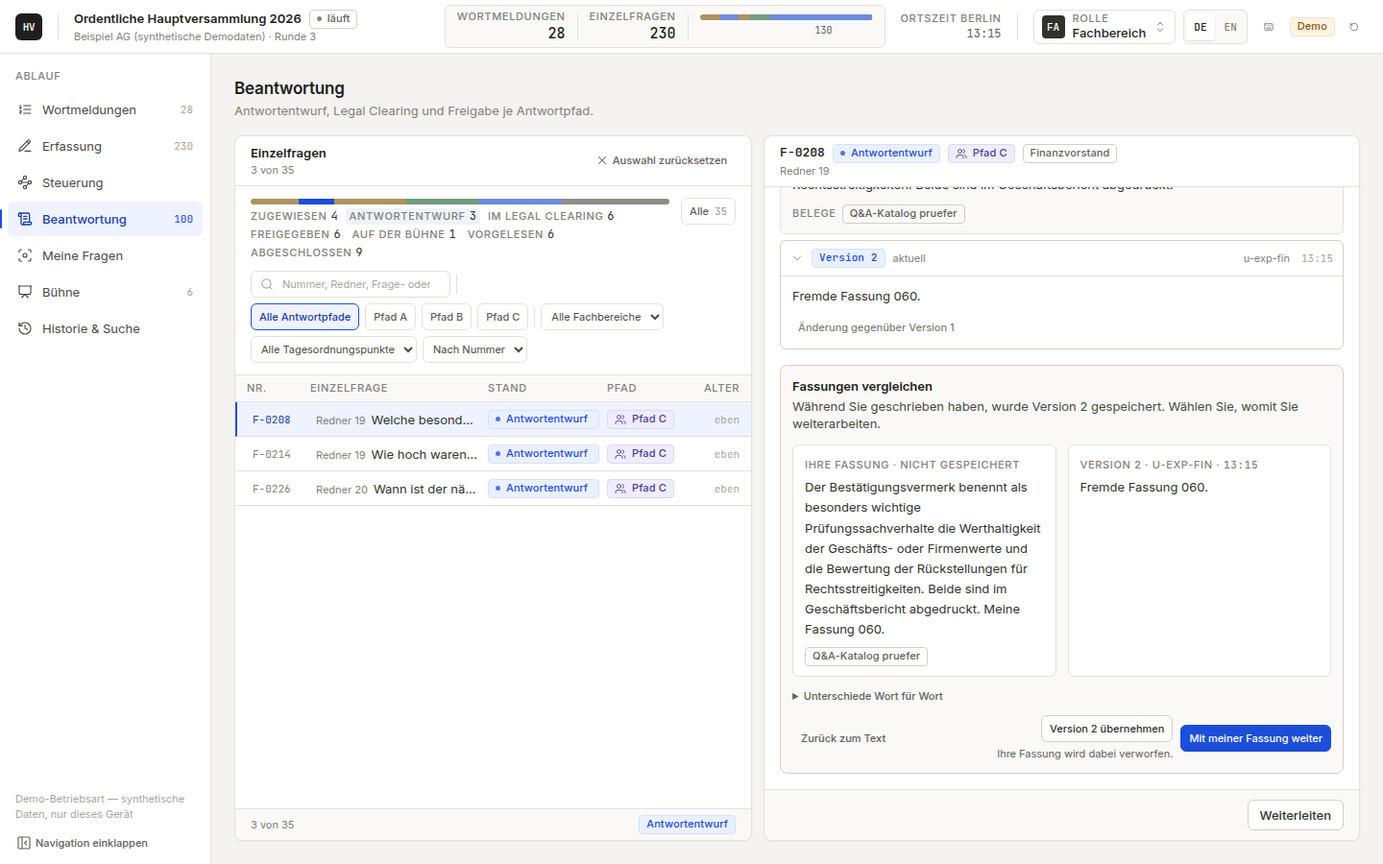
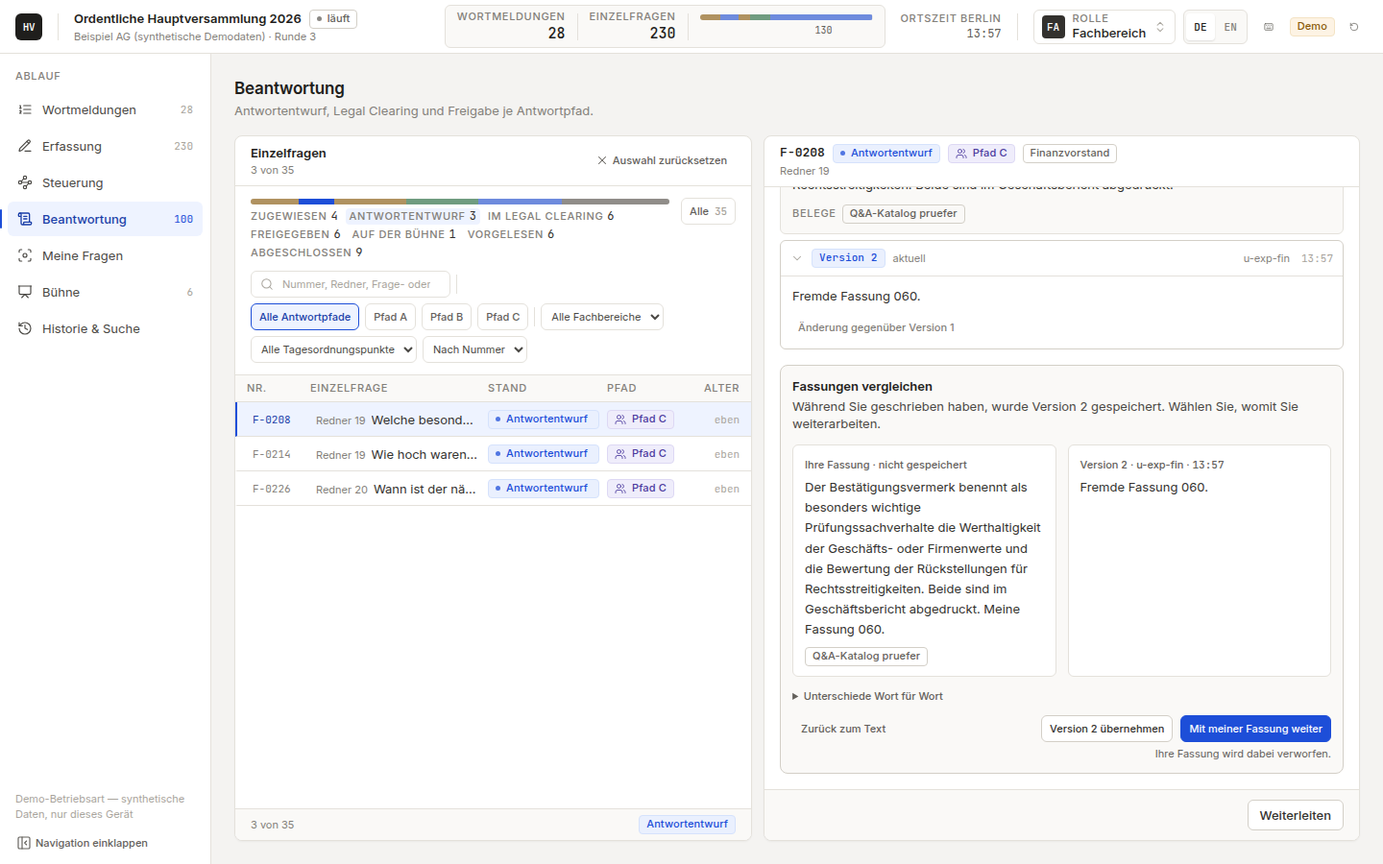
060 Nacharbeit: Review, Design-Kritik und CI e2e-http E3 [skip netlify]
Puffer: kein Ladekreis bei totem Speicher, clear-Epoche, 256-KiB-Grenze beim Lesen;
Rückgängig innerhalb 400 ms löscht; roles_changed im Schreibmodus; Vergleich: eine
primäre Aktion, Knöpfe in einer Reihe, Spaltenköpfe ink-600; goneKept 'in diesem
Browser'; E3 http prüft den Text im Puffer statt im ausgeblendeten Feld; Doku-Wortlaut
zum Ablauf und Restrisiko anderer Tabs.

Claude-Session: https://claude.ai/code/session_013UK8Jxen4h6QSw8s3wijKh

diff --git a/apps/web/src/api/draftBuffer.ts b/apps/web/src/api/draftBuffer.ts
@@ -16,7 +16,7 @@
  * the comparison only through `AnswerText` (decision 2).
  */
 import { useSyncExternalStore } from 'react';
-import { checkAnswerBodyInput, codePointLength } from '@hv/domain';
+import { ANSWER_TEXT_MAX_LENGTH, checkAnswerBodyInput, codePointLength } from '@hv/domain';
 import type { AnswerBodyInput } from '@hv/domain';
 import { previewAnswer, previewText } from './answerFormat';
 
@@ -39,7 +39,6 @@ const FUTURE_TOLERANCE_MS = 5 * 60 * 1000;
 const SOURCES_MAX_PARTS = 50;
 const SOURCE_MAX_CHARS = 2000;
 const SOURCES_MAX_CHARS = 102_000;
-const ANSWER_TEXT_MAX_CHARS = 20_000;
 
 /** One buffered draft: exactly the fields of decision 2. The base itself always comes from the record. */
 export interface BufferEntry {
@@ -122,9 +121,11 @@ export function sanitizeEntry(raw: unknown, now: number): BufferEntry | undefine
     if (checkAnswerBodyInput(body) !== undefined) return undefined;
     checked = body as AnswerBodyInput;
     if (previewAnswer(checked) === null && hasText(checked)) return undefined;
-    if (codePointLength(previewText(checked)) > ANSWER_TEXT_MAX_CHARS) return undefined;
+    if (codePointLength(previewText(checked)) > ANSWER_TEXT_MAX_LENGTH) return undefined;
   }
-  return { id, schema: BUFFER_SCHEMA, ownerId, meetingId, questionId, body: checked, sources, baseVersion, changedAt };
+  const clean: BufferEntry = { id, schema: BUFFER_SCHEMA, ownerId, meetingId, questionId, body: checked, sources, baseVersion, changedAt };
+  // The serialised cap holds on read as on write (review 060, minor 6): a planted entry cannot be larger than one written.
+  return JSON.stringify(clean).length > ENTRY_MAX_CHARS ? undefined : clean;
 }
 
 /** A store in memory with the same interface, for tests (and nothing else). */
@@ -233,6 +234,10 @@ export function createDraftBuffer(options: {
   let loadedFor: string | undefined;
   let loading: { id: string; done: Promise<void> } | undefined;
   let loads = 0;
+  /** Actor ids whose load failed: never asked again on this page (review 060, blocker 1: no load loop on a dead store). */
+  const failed = new Set<string>();
+  /** Bumped by every clear: a load that started before it must not bring cleared entries back (review 060, minor 5). */
+  let epoch = 0;
   let rev = 0;
   let roles = false;
   // Not armed until the first explicit load: the demo start switches to the administration and back before it (blocker 1).
@@ -262,10 +267,11 @@ export function createDraftBuffer(options: {
 
   async function loadFor(id: string): Promise<void> {
     if (loading?.id === id) return loading.done;
+    const startedIn = epoch;
     const done = (async () => {
       status = status === 'unavailable' ? status : 'loading';
       try {
-        const rows = await store.getAll();
+        const rows = startedIn === epoch ? await store.getAll() : [];
         const at = now();
         const next = new Map<string, BufferEntry>();
         const drop: string[] = [];
@@ -281,6 +287,7 @@ export function createDraftBuffer(options: {
         // purgeOthers: every entry of another actor, every rejected and every expired one goes (idempotent).
         for (const rawId of drop) await store.delete(rawId);
         if (actorId() !== id) return;
+        if (startedIn !== epoch) next.clear();
         if (loadedFor !== id) roles = false;
         for (const [key, held] of pending) if (held.ownerId !== id) cancelPending(key);
         snapshot = next;
@@ -291,6 +298,7 @@ export function createDraftBuffer(options: {
         if (status !== 'unavailable') status = 'ready';
       } catch {
         status = 'unavailable';
+        failed.add(id);
       } finally {
         if (loading?.id === id) loading = undefined;
         notify();
@@ -305,7 +313,7 @@ export function createDraftBuffer(options: {
     const id = actorId();
     if (id === undefined || !armed) return undefined;
     if (id !== loadedFor) {
-      void loadFor(id);
+      if (!failed.has(id)) void loadFor(id);
       return undefined;
     }
     return id;
@@ -330,7 +338,7 @@ export function createDraftBuffer(options: {
     const changedAt = now();
     const candidate = { ...fields, id: entryId(fields.meetingId, fields.ownerId, fields.questionId), schema: BUFFER_SCHEMA, changedAt };
     const entry = sanitizeEntry(candidate, changedAt);
-    if (entry === undefined || JSON.stringify(entry).length > ENTRY_MAX_CHARS) {
+    if (entry === undefined) {
       switchOff();
       return undefined;
     }
@@ -398,7 +406,7 @@ export function createDraftBuffer(options: {
     async load() {
       armed = true;
       const id = actorId();
-      if (id === undefined || id === loadedFor) return;
+      if (id === undefined || id === loadedFor || failed.has(id)) return;
       await loadFor(id);
     },
     notice() {
@@ -439,6 +447,7 @@ export function createDraftBuffer(options: {
       return id === loadedFor && snapshot.has(key) ? kept.get(key) : undefined;
     },
     async clear() {
+      epoch += 1;
       for (const key of [...pending.keys()]) cancelPending(key);
       snapshot = new Map();
       kept.clear();

diff --git a/apps/web/src/features/answers/CompareVersions.tsx b/apps/web/src/features/answers/CompareVersions.tsx
@@ -114,12 +114,12 @@ export function CompareVersions({ mine, theirs, autoFocus, onKeepMine, onTakeThe
 
       <div className="mt-3 grid gap-3 lg:grid-cols-2">
         <div data-testid="compare-mine" className="min-w-0 rounded-md border border-line bg-surface px-3 py-2.5">
-          <span className="hv-label">{t('answers.compare.mine')}</span>
+          <span data-testid="compare-mine-head" className="text-2xs font-medium text-ink-600">{t('answers.compare.mine')}</span>
           <AnswerText answer={{ text: mineText, ...(mineBody !== null ? { body: mineBody } : {}) }} className="mt-1 text-[13px] leading-relaxed text-ink-800 select-text" />
           <Sources sources={splitSources(mine.sources)} />
         </div>
         <div data-testid="compare-theirs" className="min-w-0 rounded-md border border-line bg-surface px-3 py-2.5">
-          <span data-testid="compare-theirs-head" aria-live="polite" className="hv-label">
+          <span data-testid="compare-theirs-head" aria-live="polite" className="text-2xs font-medium text-ink-600">
             {fill(t('answers.compare.theirs'), {
               version: mono(theirs.version),
               author,
@@ -149,23 +149,22 @@ export function CompareVersions({ mine, theirs, autoFocus, onKeepMine, onTakeThe
         {diffOpen && <WordDiff from={theirsText} to={mineText} />}
       </details>
 
-      <div className="mt-3 flex flex-wrap items-center gap-2">
+      {/* Design critique D-b (D3): the three buttons share one row and one top edge; the hint has its own line below. */}
+      <div data-testid="compare-actions" className="mt-3 flex flex-wrap items-center gap-2">
         <Button size="sm" variant="ghost" data-testid="compare-back" onClick={onBack}>
           {t('answers.compare.back')}
         </Button>
         <span className="flex-1" />
-        <span className="flex flex-col items-end gap-1">
-          <Button size="sm" variant="secondary" data-testid="compare-take-theirs" aria-describedby={hintId} onClick={() => onTakeTheirs(theirs.version)}>
-            {t('answers.compare.takeTheirs', { version: theirs.version })}
-          </Button>
-          <span id={hintId} className="text-2xs text-ink-600">
-            {t('answers.compare.takeTheirsHint')}
-          </span>
-        </span>
+        <Button size="sm" variant="secondary" data-testid="compare-take-theirs" aria-describedby={hintId} onClick={() => onTakeTheirs(theirs.version)}>
+          {t('answers.compare.takeTheirs', { version: theirs.version })}
+        </Button>
         <Button size="sm" variant="primary" data-testid="compare-keep-mine" onClick={() => onKeepMine(theirs.version)}>
           {t('answers.compare.keepMine')}
         </Button>
       </div>
+      <p id={hintId} className="mt-1 text-right text-2xs text-ink-600">
+        {t('answers.compare.takeTheirsHint')}
+      </p>
     </section>
   );
 }

diff --git a/apps/web/src/features/focus/Page.tsx b/apps/web/src/features/focus/Page.tsx
@@ -171,6 +171,14 @@ export function FocusPage() {
     // say until when it stays on this device. Without the buffer the notice of 054 stands: the text is gone.
     for (const { number, key, questionId } of discarded) {
       const meetingId = meetingOf.current[key];
+      // Decision 4 (review 060, minor 4): after `roles_changed`, a question that no longer offers drafting takes its entry
+      // along; the notice of 054 says the text is gone.
+      const stillDrafts = selected !== null && selected.id === questionId && selected._actions.includes('answer.draft');
+      if (meetingId !== undefined && draftBuffer.rolesChanged() && !stillDrafts) {
+        void draftBuffer.delete(meetingId, questionId);
+        showToast({ tone: 'neutral', title: t('focus.write.gone', { number }) });
+        continue;
+      }
       const written = meetingId === undefined ? Promise.resolve(undefined) : draftBuffer.flush(meetingId, questionId);
       void written.then((at) => showToast({
         tone: 'neutral',
@@ -179,7 +187,7 @@ export function FocusPage() {
           : t('focus.write.goneKept', { number, time: clockOf(at + BUFFER_LIFETIME_MS) }),
       }));
     }
-  }, [listSettled, drafts, recordOf, actorId, writingId, t]);
+  }, [listSettled, drafts, recordOf, actorId, writingId, selected, t]);
 
   // Opening the writing mode waits for the record of the chosen question; it opens only when that record offers
   // drafting and the question is one of "Meine Fragen" (the list can be older than the detail).
@@ -340,6 +348,14 @@ export function FocusPage() {
       if (late.changedAt !== undefined) setRestoredAt((previous) => ({ ...previous, [key]: late.changedAt! }));
     }
   }, [snapshotSeen, snapshotNow, writingId, selected, actorId, drafts]);
+
+  // A refused save and an open comparison belong to the question they were made on (010d Ziel 3, review 060 minor 7).
+  const [shownSeen, setShownSeen] = useState({ selectedId, writingId });
+  if (shownSeen.selectedId !== selectedId || shownSeen.writingId !== writingId) {
+    setShownSeen({ selectedId, writingId });
+    setRefused(null);
+    setCompareFor(null);
+  }
 
   // Decision 7.3: a refused save is sorted against the next record of its question that is newer than the click's.
   useEffect(() => {

diff --git a/apps/web/e2e/060-entwurfspuffer-praesenz.spec.ts b/apps/web/e2e/060-entwurfspuffer-praesenz.spec.ts
@@ -257,8 +257,10 @@ test.describe.serial('060 Entwurfspuffer und Fassungsvergleich', () => {
     if (isHttp()) {
       await save(page).click();
       await expect(page.locator('[aria-live] [role="status"]').first()).toBeVisible();
-      await expect(field(page)).toContainText(DRAFT_060_OFFLINE);
-      await expect(save(page)).toHaveAttribute('aria-disabled', 'false');
+      // The refused write re-reads the question (write door); offline that read fails too, and the Beantwortung drops the
+      // detail (useBacklog: a failed `getQuestion` shows no question, 010d). The text is not lost: it stays in the buffer
+      // and comes back below, once the question is open again.
+      expect(JSON.stringify(await readBuffer(page))).toContain(DRAFT_060_OFFLINE);
       await context.setOffline(false);
       // A new sign-in of the same person: the session cookie is gone, then the harness's state signs in again.
       await context.clearCookies();
@@ -536,7 +538,7 @@ test.describe.serial('060 Entwurfspuffer und Fassungsvergleich', () => {
       const q = page.items.find((item) => item.number === id)!;
       await module.api.submitForReview(q.id, { ifMatch: `"v${q.version}"` });
     }), [API_MODULE, number]);
-    await expect(page.getByText(new RegExp(`${escape(number)} liegt nicht mehr bei Ihnen\\. Ihr ungespeicherter Text bleibt auf diesem Gerät bis \\d\\d:\\d\\d erhalten\\.`))).toBeVisible();
+    await expect(page.getByText(new RegExp(`${escape(number)} liegt nicht mehr bei Ihnen\\. Ihr ungespeicherter Text bleibt in diesem Browser bis \\d\\d:\\d\\d erhalten\\.`))).toBeVisible();
     await expect(page.getByTestId('focus-writing')).toHaveCount(0);
     expect((await readBuffer(page)).length).toBe(1);
     // Legal returns it (a permitted role). The demo persona is swapped only around the one synchronous call, so no view

diff --git a/apps/web/src/features/focus/WritingMode.tsx b/apps/web/src/features/focus/WritingMode.tsx
@@ -93,7 +93,12 @@ export function WritingMode({
   const t = useT();
   const keysId = useId();
   const labelId = useId();
-  const { primary, secondary } = focusActions(question._actions, { dirty, writing: true });
+  const offered = focusActions(question._actions, { dirty, writing: true });
+  // Design critique D-a (D2): while the comparison stands in place of the field, its decision is the one primary action;
+  // the footer does not offer saving at the same time.
+  const comparing = compare !== undefined;
+  const primary = comparing && offered.primary === 'save' ? undefined : offered.primary;
+  const secondary = comparing ? offered.secondary.filter((action) => action !== 'save') : offered.secondary;
   const mayDraft = question._actions.includes('answer.draft');
   // The plain text of the previewed document (055b decision 7): the reading time and "nothing to save" read it.
   const text = previewText(body);
@@ -247,9 +252,12 @@ export function WritingMode({
               </span>
             )}
             {keptNote}
-            <span id={keysId} data-testid="focus-write-keys" className="ml-auto text-2xs text-ink-600">
-              {t('focus.write.keys')}
-            </span>
+            {/* Design critique D-c: the keys of the field do not apply while the comparison is open. */}
+            {!comparing && (
+              <span id={keysId} data-testid="focus-write-keys" className="ml-auto text-2xs text-ink-600">
+                {t('focus.write.keys')}
+              </span>
+            )}
           </div>
         </div>
       </Panel>

diff --git a/apps/web/src/features/answers/QuestionDetail.tsx b/apps/web/src/features/answers/QuestionDetail.tsx
@@ -432,8 +432,14 @@ export function QuestionDetail({
     const step = bufferStep(draft, true);
     const target = { ownerId: actorId, meetingId, questionId: question.id };
     if (step.kind === 'put') buffer.schedule({ ...target, body: step.body, sources: step.sources, baseVersion: step.baseVersion });
-    else if (step.kind === 'delete' && entry !== undefined) buffer.scheduleDelete(target);
+    // Always, also without a stored entry: a put still pending from an input undone within 400 ms must not land (review 060).
+    else if (step.kind === 'delete') buffer.scheduleDelete(target);
   });
+
+  // A one-shot request: the field took the focus when it was built after the comparison (its layout effect ran first).
+  useEffect(() => {
+    if (focusField && !comparing) setFocusField(false);
+  }, [focusField, comparing]);
 
   useEffect(() => {
     onCompareChange?.(comparing);
@@ -479,6 +485,8 @@ export function QuestionDetail({
 
   const may = question._actions;
   const mayDraft = may.includes('answer.draft');
+  // Without `answer.draft` there is no field to return to: the comparison closes with it (review 060, minor 8).
+  if (comparing && !mayDraft) setComparing(false);
   const maySubmit = may.includes('question.submit_review');
   const mayApprove = may.includes('question.approve');
   const mayLegalClear = may.includes('question.legal.clear');

diff --git a/apps/web/src/i18n/focus.de.ts b/apps/web/src/i18n/focus.de.ts
@@ -21,7 +21,7 @@ export const focusDe = {
   'focus.write.close': 'Schreibmodus verlassen',
   'focus.write.keys': 'Strg+Enter speichert den Entwurf. Escape verlässt den Schreibmodus, der Text bleibt erhalten.',
   'focus.write.gone': '{number} liegt nicht mehr bei Ihnen. Der ungespeicherte Text ist verworfen.',
-  'focus.write.goneKept': '{number} liegt nicht mehr bei Ihnen. Ihr ungespeicherter Text bleibt auf diesem Gerät bis {time} erhalten.',
+  'focus.write.goneKept': '{number} liegt nicht mehr bei Ihnen. Ihr ungespeicherter Text bleibt in diesem Browser bis {time} erhalten.',
   'focus.write.rebase': 'Inzwischen liegt eine neuere Antwortversion vor. Ihr Text ist nicht gespeichert.',
   'focus.draft.unsaved': 'Ungespeicherter Text. Erst speichern; danach lässt sich die Einzelfrage weiterleiten.',
   'focus.reading.time': 'Vorlesezeit ca. {time} min',

diff --git a/apps/web/src/i18n/focus.en.ts b/apps/web/src/i18n/focus.en.ts
@@ -18,7 +18,7 @@ export const focusEn: typeof focusDe = {
   'focus.write.close': 'Leave writing mode',
   'focus.write.keys': 'Ctrl+Enter saves the draft. Escape leaves writing mode; the text is kept.',
   'focus.write.gone': '{number} is no longer with you. The unsaved text was discarded.',
-  'focus.write.goneKept': '{number} is no longer with you. Your unsaved text stays on this device until {time}.',
+  'focus.write.goneKept': '{number} is no longer with you. Your unsaved text stays in this browser until {time}.',
   'focus.write.rebase': 'A newer answer version has arrived meanwhile. Your text is not saved.',
   'focus.draft.unsaved': 'Unsaved text. Save first; then the question can be forwarded.',
   'focus.reading.time': 'Reading time approx. {time} min',

diff --git a/docs/datenschutz/dsfa-vorentwurf.md b/docs/datenschutz/dsfa-vorentwurf.md
@@ -190,7 +190,7 @@ Spalte „Schutzmaßnahme" nennt die technische Maßnahme und, in Klammern, die 
 | V2 | Redebeitrag erfassen (Wortlaut) | Wortlaut, Zeitmarken, Bezug auf Wortmeldung | Aktionär; ggf. genannte Dritte | Grundlage der Beantwortung; Nachweis des Fragewortlauts | Art. 6 Abs. 1 lit. c i. V. m. § 131 AktG (Auskunftspflicht) — **zu prüfen** | Erfassung, Koordination | record | Segmente unveränderlich, Sprecher nur als Referenz (064); Übernahme-Sperre je Erfassender (028) |
 | V3 | Einzelfrage bilden (Atomisierung) | Fragewortlaut, Nummer, Bezug | Aktionär | Auskunftserteilung je Frage | wie V2 — **zu prüfen** | wie V2; Fachbereich pseudonymisiert | record | Pseudonymisierung gegenüber Fachbereichen Standard an (026) |
 | V4 | Klassifizieren und zuweisen | Antwortpfad, Fachbereich, Bühnenplatz, Vertraulichkeitsstufe; handelnde personId | Aktionär (Frage), Beschäftigte (Handlung) | Steuerung der Beantwortung | Inhalt: wie V2; Handlungsdaten Beschäftigter: § 26 BDSG bzw. Nachfolgeregelung oder Art. 6 Abs. 1 lit. b/f DSGVO — **zu prüfen** | Koordination, Recht, Freigabe | record (DSFA); im Code `working` für `QuestionAssigned`, `QuestionReturned` und `QuestionForwarded` — Widerspruch offen, Frage an den DSB (Eigentümerfrage 9 der Spec 048) | Zuweisung an den Fachbereich, nicht an Personen (E36, 028); keine Kennzahl je Person (033). Weiterleiten an einen anderen Fachbereich (048): Grund als geschlossener Code ohne Personenbezug, kein Freitext; der Leserkreis wächst um die Fachkräfte der Zieleinheit (Rückgabegrund, ganze Historie, Antwortversionen mit Ersteller, laufender Claim, offener Verweigerungsvorschlag ohne Begründung) |
-| V5 | Antwortentwurf und Versionen | Antworttext (Blockdokument), Autor als personId, Zeit | Beschäftigte (Autor); Aktionär (Inhalt) | Vorbereitung der Auskunft | Inhalt: wie V2; Autorendaten: wie V4 — **zu prüfen** | zugewiesener Fachbereich, Koordination, Recht, Freigabe | record (Version), working (Entwurfsspeicherung) | Versionen unveränderlich; Entwurfsspeicherung ohne Personenauswertung (060): seit 060 liegt der ungespeicherte Entwurf der Antwortansichten im Browser des Geräts (IndexedDB), je Akteur und Versammlung, nur Entwurfsfelder (Akteur-id, Versammlung, Frage-id, Eingabeform, Quellen, Basisversion, Änderungszeit; kein Fragetext, kein Name), höchstens 14 h nach der letzten Änderung; gelöscht bei Speichern, Verwerfen, Abmelden (vor der Abmeldeanfrage), ohne Rolle, bei entzogenem Strom (`forbidden`), beim Laden für einen anderen Akteur und beim Demo-Reset; keine Synchronisierung (kein Netz, kein Tab-Abgleich, kein Service Worker), keine Auswertung. Restrisiko: bis zu 14 h Klartext auf einem nicht abgemeldeten Gerät (Sitzungsablauf löscht nicht); Begrenzung durch Abmelden, Geräterichtlinie (E33), Sitzungssperre (029); Dauer und Verschlüsselung Eigentümerfragen 2/3 der Spec 060 |
+| V5 | Antwortentwurf und Versionen | Antworttext (Blockdokument), Autor als personId, Zeit | Beschäftigte (Autor); Aktionär (Inhalt) | Vorbereitung der Auskunft | Inhalt: wie V2; Autorendaten: wie V4 — **zu prüfen** | zugewiesener Fachbereich, Koordination, Recht, Freigabe | record (Version), working (Entwurfsspeicherung) | Versionen unveränderlich; Entwurfsspeicherung ohne Personenauswertung (060): seit 060 liegt der ungespeicherte Entwurf der Antwortansichten im Browser des Geräts (IndexedDB), je Akteur und Versammlung, nur Entwurfsfelder (Akteur-id, Versammlung, Frage-id, Eingabeform, Quellen, Basisversion, Änderungszeit; kein Fragetext, kein Name), Ablauf 14 h nach der letzten Änderung, wirksam aber erst, wenn das Werkzeug in diesem Browser wieder geöffnet wird (vorher löscht nichts; bis dahin bleibt der Klartext auf dem Gerät, auch über 14 h hinaus); gelöscht bei Speichern, Verwerfen, Abmelden (vor der Abmeldeanfrage), ohne Rolle, bei entzogenem Strom (`forbidden`), beim Laden für einen anderen Akteur und beim Demo-Reset; keine Synchronisierung (kein Netz, kein Tab-Abgleich, kein Service Worker), keine Auswertung. Restrisiko: Klartext auf einem nicht abgemeldeten Gerät, bis das Werkzeug dort wieder geöffnet wird (Sitzungsablauf löscht nicht, der Ablauf greift erst beim nächsten Öffnen); andere Tabs derselben Person behalten ihre Momentaufnahme im Arbeitsspeicher nach dem Abmelden bis zu ihrem nächsten 401; Begrenzung durch Abmelden, Geräterichtlinie (E33), Sitzungssperre (029); Dauer und Verschlüsselung Eigentümerfragen 2/3 der Spec 060 |
 | V6 | Rechtsprüfung und Freigabe | Empfehlungs- und Freigabeereignis mit personId, Freigabevermerk, Rechtstor | Beschäftigte | Vier-Augen-Prinzip, Rechtstor vor der Bühne | wie V4 — **zu prüfen** | Recht, Freigabe | record | Ersteller ≠ Freigeber technisch erzwungen; Rechtstor als Datentabelle, nicht abschaltbar (021) |
 | V7 | Verweigerung | Antwortart, Grund aus Katalog (Pfad B) mit Hash und Schnappschuss, Wortlaut, Begründung, Ersteller, rechtlich Freigebende und Freigebende als Akteur-id (044a) | Aktionär (die Begründung kann ihn persönlich betreffen, besonders bei Pfad A; als personenbezogen behandelt) | Bewusste Nichtbeantwortung mit Grund | Art. 6 Abs. 1 lit. c i. V. m. § 131 Abs. 3 AktG — **zu prüfen**; für Pfad-A-Begründungen offen (Abschnitt 5, Punkt 11) | Begründung: Recht, Koordination, Freigabe (Halter von `question.refuse.*`; seit 044a: **Podium entfällt**, **Koordination kommt hinzu**); Podium: nur Wortlaut, Antwortart und Grund ab `staged`; Vermerk der Rechtsfreigabe: niemand über einen Lesepfad | record (044a: `AnswerDrafted` aus `proposeRefusal` und `QuestionApproved` aus `approveRefusal`; Rechtsfreigabe und übrige Antwortereignisse V5/V6 heute `working`, offen) | Kein Zustand ohne Grund speicherbar: für Pfad B umgesetzt (R-GUARD-09); für Pfad A **nicht erfüllt**: kein zugeordneter Grund (Vertrag 0.4.0), Begründung Pflicht; offen bis Eigentümerfrage 3b / 044c. Begründung nur im `pii`-Teil des Ereignisses (ADR 0009, `keyId` des Jahrgangs; Codec und Krypto-Shredding mit 073), in keinem Ereignis-Lesepfad, keiner Bühnenansicht, keiner Suche (044a; E14); Katalog mit `verified:false` bis zur Rechtsprüfung (044a, 076) |
 | V8 | Bühne und Vorgelesen | Anzeige des freigegebenen Textes je Gerät; Vorgelesen-Ereignis mit Bühnenplatz und Zeit; Anzeigeeinstellungen nur im Gerät | Aktionär (Frage), Podiumsmitglied | Erteilung der Auskunft; Nachweis, wo und wann | Art. 6 Abs. 1 lit. c i. V. m. § 131 AktG; Nachweis § 130 AktG — **zu prüfen** | Podium (nur eigener Bühnenplatz), Versammlungsbüro | record | `podiumVisibility=own` (047); geschützte Fragen erst auf der Bühne sichtbar; offline nur Absichtswarteschlange ohne Nutzdaten außer der Anzeige (058) |

diff --git a/docs/folgeliste.md b/docs/folgeliste.md
@@ -879,4 +879,18 @@ und Timeouts). Der Datenschutzbefund `claim.personId` (028) ist in **takt-027** 
   den Eintrag mit der neuen Basis neu schreiben.
 - 060 Bau · Persona-Wechsel in der Demo erreicht den Puffer über den Lesepfad (`getActor` des Live-Speichers ruft `notice()`);
   `actor.ts` bietet kein Abonnement · bei der nächsten Scheibe an `actor.ts` ein `subscribe` anbieten und dort verdrahten.
+- 060 Review nit 11 · die Doppelklick-Sperre (`detail > 1`) schluckt auch einen bewussten zweiten Klick auf eine andere Aktion
+  an derselben Stelle · nach der Layoutänderung (Feld unter den Entscheidungen) entfernen.
+- 060 Review nit 12 · E5 (http) belegt nicht, dass der Speicher **vor** der Abmeldeanfrage leer ist (nur danach); die Reihenfolge
+  belegt U1 · im Double der Abmeldeanfrage den Objektspeicher lesen.
+- 060 Design-Kritik minor 7 · die Spalten des Vergleichs sind in der geteilten Ansicht eng (Umbruch nach Fensterbreite, nicht
+  nach Breite des Detailbereichs) · Container-Breakpoint erwägen.
+- 060 Design-Kritik D5 · die Uhrzeit im Hinweis `focus.write.goneKept` steht nicht in Mono und ohne Datum (bei Ablauf am Folgetag
+  missverständlich) · Datum ergänzen, Zeit in Mono (Toast mit Teilen).
+- 060 Review nit · „wiederhergestellt“ zeigt HH:MM, „zwischengespeichert“ HH:MM:SS · eine Form festlegen.
+- 060 Review nit · Uhrzeitformatierung an drei Stellen (`DraftNote`, `focus/Page.tsx`, `clockTime`) mit der Zeitzone des Geräts,
+  während der Kopf „Ortszeit Berlin“ zeigt · eine gemeinsame Formatierung mit der Zeitzone der Versammlung.
+- 060 Bau (CI-Lauf 37458349373) · Speichern offline im HTTP-Betrieb: die Schreibtür liest nach der Ablehnung neu, offline scheitert
+  auch das, und `useBacklog` zeigt danach keine Frage mehr (das Feld verschwindet; der Text bleibt im Puffer und kommt beim
+  nächsten Öffnen wieder) · bei einem gescheiterten Neuladen die zuletzt gezeigte Frage stehen lassen (Lane web-answers, 010d).
 
